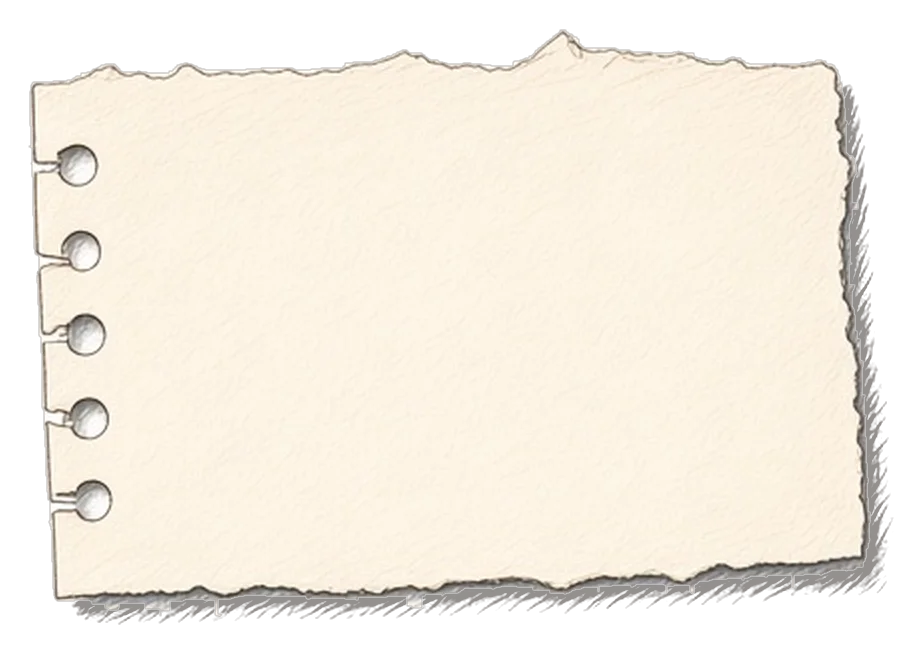
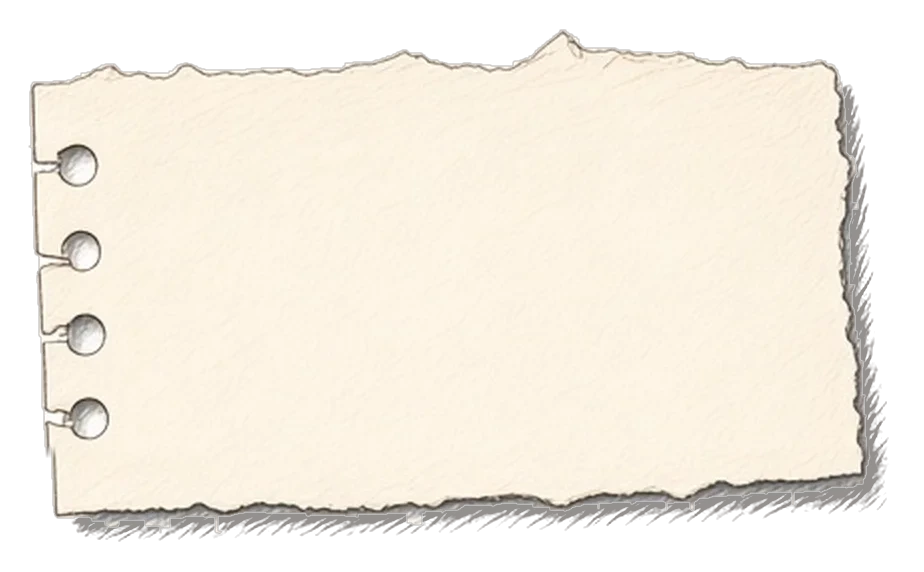
fix(diy-pbl): s18 4-ring pad, inside numerals, ring-pitch rows
Swap Leo torn_page_4rings.webp (924x572), size pad by aspect, render
takeaway numbers via ::before counters so overflow cannot clip markers,
and pin each row to the 29/44/58/73% ring centers. Strengthen the s18
glyph-ink test for clip + pitch.

Changed region(s): [[0.0303, 0.0297, 0.9697, 0.951], [0.0303, 0.208, 0.1212, 0.8024]]

diff --git a/public/diy-pbl-bookshare/bs.css b/public/diy-pbl-bookshare/bs.css
@@ -1075,16 +1075,64 @@ body.fl-full .bs-resources-panel--compact {
   bottom: auto !important;
 }
 .bs-paper-group .bs-takeaways {
-  /* Clear spiral binder rings baked into torn_page.webp (~left 12%). */
-  left: 20% !important;
-  top: 12% !important;
-  width: 70% !important;
-  height: 78% !important;
+  /* Clear spiral binder rings (~left 12% of torn_page). Full pad height for ring pitch. */
+  left: 18% !important;
+  top: 0 !important;
+  width: 74% !important;
+  height: 100% !important;
   right: auto !important;
   bottom: auto !important;
+  overflow: visible !important;
 }
-.bs-paper-group .bs-takeaways ol {
-  padding-left: 1.55em !important;
+/* Numerals as real ::before text (inside the box) — outside markers get clipped by overflow. */
+.bs-paper-group .bs-takeaways ol,
+.bs-paper-group .bs-takeaways-ol {
+  list-style: none !important;
+  padding-left: 0 !important;
+  margin: 0 !important;
+  counter-reset: takeaway !important;
+  position: absolute !important;
+  inset: 0 !important;
+}
+.bs-paper-group .bs-takeaways li {
+  list-style: none !important;
+  position: absolute !important;
+  left: 0 !important;
+  right: 0 !important;
+  width: auto !important;
+  height: auto !important;
+  margin: 0 !important;
+  padding: 0 0 0 1.55em !important;
+  box-sizing: border-box !important;
+  transform: translateY(-50%) !important;
+  overflow: visible !important;
+}
+/* Leo 4-ring pad: ring centers at 29 / 44 / 58 / 73% of pad height. */
+.bs-paper-group .bs-takeaways li:nth-child(1) { top: 29% !important; }
+.bs-paper-group .bs-takeaways li:nth-child(2) { top: 44% !important; }
+.bs-paper-group .bs-takeaways li:nth-child(3) { top: 58% !important; }
+.bs-paper-group .bs-takeaways li:nth-child(4) { top: 73% !important; }
+.bs-paper-group .bs-takeaways li::before {
+  counter-increment: takeaway;
+  content: counter(takeaway) ".";
+  position: absolute;
+  left: 0;
+  top: 0;
+  width: 1.4em;
+  text-align: right;
+  box-sizing: border-box;
+  color: inherit;
+  font: inherit;
+  line-height: inherit;
+}
+/* Title sits above ring 1. */
+.bs-paper-group .bs-takeaways h3 {
+  position: absolute !important;
+  left: 0 !important;
+  right: 0 !important;
+  top: 12% !important;
+  margin: 0 !important;
+  transform: none !important;
 }
 /* Label chips: no text-shadow glow (looks pasted) */
 .bs-surface--label,

diff --git a/public/diy-pbl-bookshare/bs-pages.js b/public/diy-pbl-bookshare/bs-pages.js
@@ -895,8 +895,12 @@ export const PAGES = SLIDES.map((slide) => ({
       }
     } else if (slide.kind === "conclude") {
       if (BUILDERS.s17) BUILDERS.s17(root, T);
-      const group = h("div", "bs-paper-group");
-      applyRect(group, 80, 110, 870, 560, 0);
+      const group = h("div", "bs-paper-group bs-paper-group--takeaways");
+      // torn_page.webp is 924x572 (4-ring pad); height follows aspect at width 870.
+      const padW = 870;
+      const padH = Math.round(padW * (572 / 924)); // 539
+      applyRect(group, 80, 110, padW, padH, 0);
+      group.dataset.ringPitch = "0.29,0.44,0.58,0.73";
       const paper = img(`${PAPER}/torn_page.webp`, "bs-paper");
       paper.setAttribute("aria-hidden", "true");
       paper.style.cssText = "position:absolute;inset:0;width:100%;height:100%;object-fit:fill;";
@@ -906,9 +910,10 @@ export const PAGES = SLIDES.map((slide) => ({
       tape.style.cssText = "position:absolute;left:40%;top:-2%;width:26%;height:12%;object-fit:fill;transform:rotate(-5deg);z-index:8;";
       group.appendChild(tape);
       const box = surface("takeaways", "bs-takeaways bs-reveal on-art");
-      box.style.cssText = "position:absolute;left:20%;top:14%;width:70%;height:72%;overflow:hidden;box-sizing:border-box;";
+      // Full pad height so row tops can sit on ring pitch percents.
+      box.style.cssText = "position:absolute;left:18%;top:0;width:74%;height:100%;overflow:visible;box-sizing:border-box;";
       const items = (slide.bullets || []).map((b) => fx(String(b).replace(/^\d+\.\s*/, "")));
-      box.innerHTML = `<h3 class="on-art-t">Takeaways</h3><ol class="on-art-b">${items.map((b) => `<li>${b}</li>`).join("")}</ol>`;
+      box.innerHTML = `<h3 class="on-art-t">Takeaways</h3><ol class="on-art-b bs-takeaways-ol">${items.map((b) => `<li>${b}</li>`).join("")}</ol>`;
       group.appendChild(box);
       ensureDesignLayer(root).appendChild(group);
       requestAnimationFrame(() => requestAnimationFrame(() => fitPaperPanel(box, 34)));
